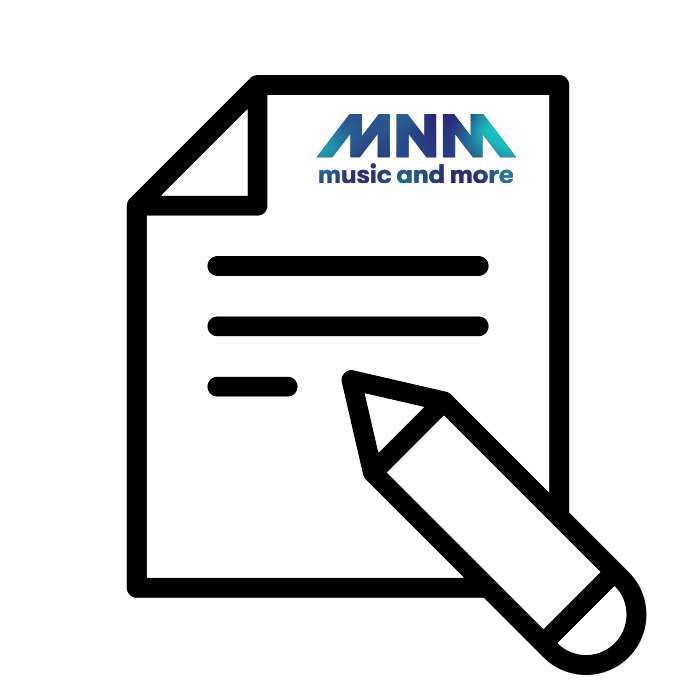
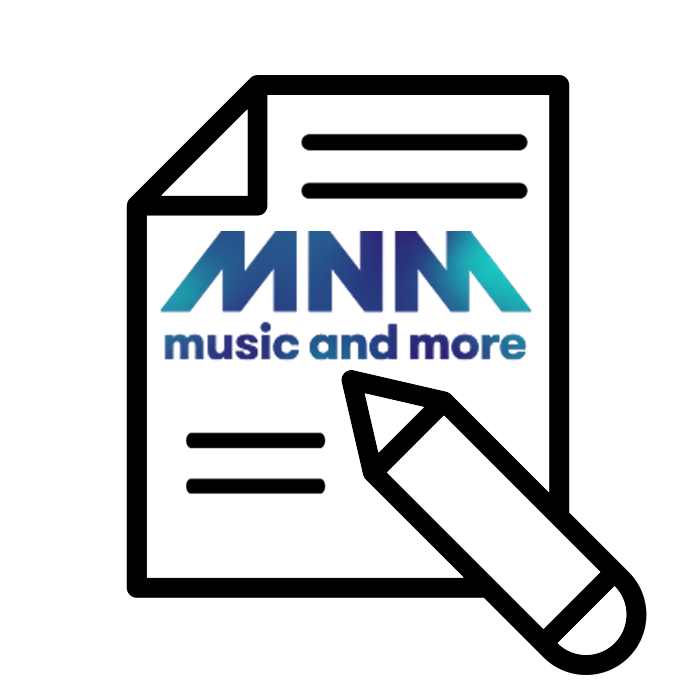
Bugfix - Toon aleen een bericht als er mensen zijn met examens - Nieuw icoontje

Changed region(s): [[0.21, 0.33, 0.78, 0.57], [0.42, 0.15, 0.75, 0.3], [0.27, 0.6, 0.48, 0.72]]

diff --git a/src/utils/job.js b/src/utils/job.js
@@ -15,7 +15,7 @@ const job = (client) => new cron.CronJob(client.config.cronTimer, async function
   );
 
   // Message all users
-  if (profile) {
+  if (profile.length) {
     const allUsers = [];
 
     profile.forEach((user) => {

diff --git a/README.md b/README.md
@@ -12,20 +12,22 @@ Een Discord bot voor de MNM server om mensen geluk te wensen met hun examens die
 ## Commando's
 De examen bot heeft enkele commando's:
 * Server beheerders:
-  * `-prefix`  - Verander de prefix van de bot.
-  * `-status`  - Stel de status van de bot in.
-  * `-kanaal`  - Verander het kanaal waarin de bot de succes-berichten stuurt.
-  * `-timer`   - Verander het tijdschema wanneer de bot de succes-berichten stuurt.
-  * `-cron`    - Voer allerlei acties uit met betrekking tot CronJob (tijdschema).
+    * `-prefix`  - Verander de prefix van de bot.
+    * `-status`  - Stel de status van de bot in.
+    * `-kanaal`  - Verander het kanaal waarin de bot de succes-berichten stuurt.
+    * `-timer`   - Verander het tijdschema wanneer de bot de succes-berichten stuurt.
+    * `-cron`    - Voer allerlei acties uit met betrekking tot CronJob (tijdschema).
 * Informatief:
-  * `-help`    - Toont al mijn commando's met nuttige informatie.
-  * `-info`    - Toont informatie over de bot.
+    * `-help`    - Toont al mijn commando's met nuttige informatie.
+    * `-info`    - Toont informatie over de bot.
 * Examens:
-  * `-examen`  - Voegt een examen toe en wenst u succes op de dag van je examen.
+    * `-examen`  - Voegt een examen toe en wenst u succes op de dag van je examen.
 
 ## Licentie
 ### Applicatie
-Exam-bot is gelicenseerd onder de GNU AGPL 3.0 licentie. Zie het bestand [LICENSE](https://github.com/Olympic1/Exam-bot/blob/master/LICENSE) voor meer informatie.
+Exam-bot is gelicenseerd onder de GNU AGPL 3.0 licentie.  
+Zie het bestand [LICENSE](https://github.com/Olympic1/Exam-bot/blob/master/LICENSE) voor meer informatie.
 
 ### Icoon
-De afbeelding die gebruikt wordt door deze applicatie is gecreëerd door een medewerker van de VRT en valt dus volledig onder de licentierechten van de VRT. Zie het bestand [licentie icoon](https://github.com/Olympic1/Exam-bot/blob/master/icoon/LICENSE.txt) voor meer informatie.
+De afbeelding die gebruikt wordt door deze applicatie is gecreëerd door een medewerker van de VRT en valt dus volledig onder de licentierechten van de VRT.  
+Zie het bestand [licentie icoon](https://github.com/Olympic1/Exam-bot/blob/master/icoon/LICENSE.txt) voor meer informatie.
